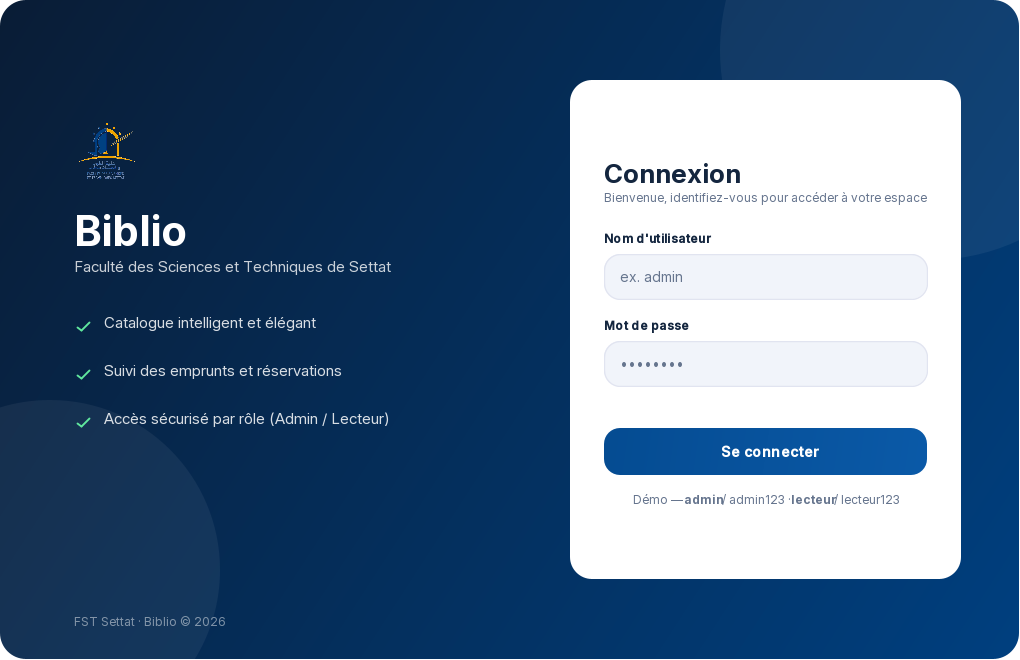
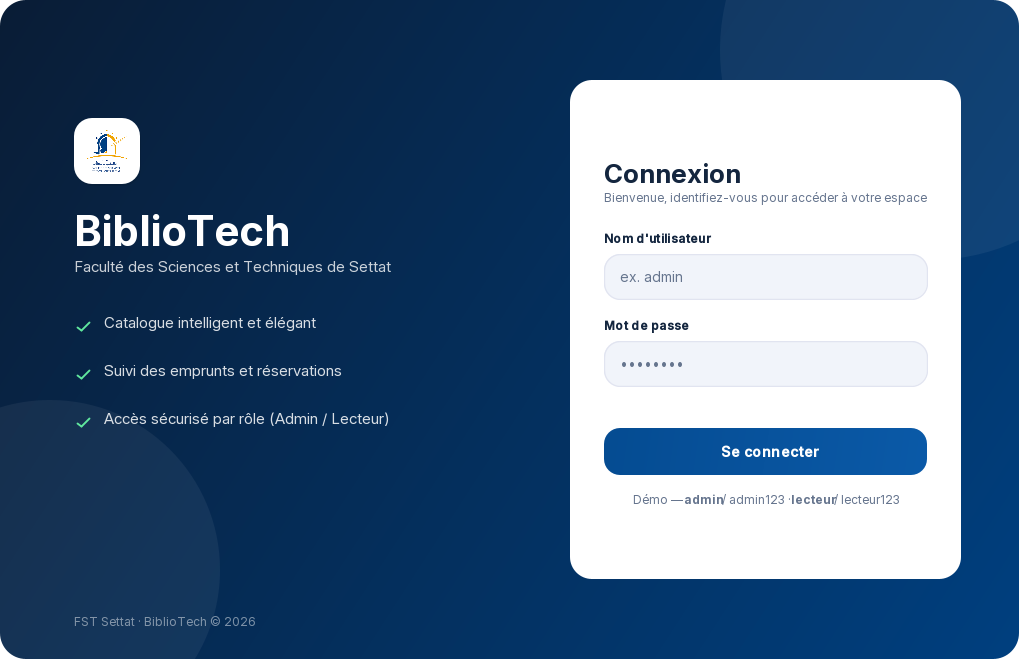
Rebuild Catalogue grid layout with WrapLayout for smooth vertical scrolling of all 160+ books and update app branding to BiblioTech

Changed region(s): [[0.0608, 0.1818, 0.152, 0.303], [0.1824, 0.303, 0.3039, 0.3939], [0.1824, 0.9394, 0.2431, 0.9697]]

diff --git a/src/gui/WrapLayout.java b/src/gui/WrapLayout.java
@@ -1,0 +1,68 @@
+import java.awt.Component;
+import java.awt.Container;
+import java.awt.Dimension;
+import java.awt.FlowLayout;
+import java.awt.Insets;
+
+public class WrapLayout extends FlowLayout {
+    public WrapLayout() {
+        super(FlowLayout.LEFT, 20, 20);
+    }
+
+    public WrapLayout(int align, int hgap, int vgap) {
+        super(align, hgap, vgap);
+    }
+
+    @Override
+    public Dimension preferredLayoutSize(Container target) {
+        return layoutSize(target, true);
+    }
+
+    @Override
+    public Dimension minimumLayoutSize(Container target) {
+        return layoutSize(target, false);
+    }
+
+    private Dimension layoutSize(Container target, boolean preferred) {
+        synchronized (target.getTreeLock()) {
+            int targetWidth = target.getWidth();
+
+            if (targetWidth == 0 && target.getParent() != null) {
+                targetWidth = target.getParent().getWidth();
+            }
+            if (targetWidth == 0) {
+                targetWidth = 980;
+            }
+
+            int hgap = getHgap();
+            int vgap = getVgap();
+            Insets insets = target.getInsets();
+            int maxWidth = targetWidth - (insets.left + insets.right + hgap * 2);
+            if (maxWidth <= 0) maxWidth = targetWidth;
+
+            int x = 0;
+            int y = insets.top + vgap;
+            int rowHeight = 0;
+            int reqWidth = 0;
+
+            for (Component m : target.getComponents()) {
+                if (m.isVisible()) {
+                    Dimension d = preferred ? m.getPreferredSize() : m.getMinimumSize();
+                    if (x == 0 || (x + d.width <= maxWidth)) {
+                        if (x > 0) x += hgap;
+                        x += d.width;
+                        rowHeight = Math.max(rowHeight, d.height);
+                    } else {
+                        reqWidth = Math.max(reqWidth, x);
+                        x = d.width;
+                        y += vgap + rowHeight;
+                        rowHeight = d.height;
+                    }
+                }
+            }
+            y += rowHeight + vgap + insets.bottom;
+            reqWidth = Math.max(reqWidth, x);
+            return new Dimension(reqWidth + insets.left + insets.right + hgap * 2, y);
+        }
+    }
+}

diff --git a/src/Launcher.cs b/src/Launcher.cs
@@ -1,0 +1,59 @@
+using System;
+using System.Diagnostics;
+using System.IO;
+using System.Windows.Forms;
+
+class Launcher
+{
+    [STAThread]
+    static void Main()
+    {
+        try
+        {
+            string root = AppDomain.CurrentDomain.BaseDirectory;
+
+            // Load environment variables from .env file if it exists
+            string envPath = Path.Combine(root, ".env");
+            if (File.Exists(envPath))
+            {
+                foreach (string line in File.ReadAllLines(envPath))
+                {
+                    string trimmed = line.Trim();
+                    if (string.IsNullOrEmpty(trimmed) || trimmed.StartsWith("#")) continue;
+                    int eq = trimmed.IndexOf('=');
+                    if (eq > 0)
+                    {
+                        string key = trimmed.Substring(0, eq).Trim();
+                        string val = trimmed.Substring(eq + 1).Trim();
+                        Environment.SetEnvironmentVariable(key, val);
+                    }
+                }
+            }
+
+            // Determine java executable path (prefer windowed javaw.exe to avoid console)
+            string javawPath = Path.Combine(root, @"dist\Biblio-Java-Windows-x64\runtime\bin\javaw.exe");
+            if (!File.Exists(javawPath))
+            {
+                javawPath = Path.Combine(root, @"dist\jpackage\Biblio-Java-Windows-x64\runtime\bin\javaw.exe");
+            }
+            if (!File.Exists(javawPath))
+            {
+                javawPath = "javaw.exe";
+            }
+
+            ProcessStartInfo psi = new ProcessStartInfo();
+            psi.FileName = javawPath;
+            psi.Arguments = "-cp \"out;lib\\postgresql-42.7.4.jar;lib\\flatlaf-3.5.4.jar\" GUI_Main";
+            psi.WorkingDirectory = root;
+            psi.UseShellExecute = false;
+            psi.CreateNoWindow = true;
+            psi.WindowStyle = ProcessWindowStyle.Hidden;
+
+            Process.Start(psi);
+        }
+        catch (Exception ex)
+        {
+            MessageBox.Show("Erreur lors du lancement de l'application: " + ex.Message, "Biblio-Java", MessageBoxButtons.OK, MessageBoxIcon.Error);
+        }
+    }
+}

diff --git a/src/gui/Logo.java b/src/gui/Logo.java
@@ -1,4 +1,5 @@
 import javax.imageio.ImageIO;
+import java.awt.Color;
 import java.awt.Graphics2D;
 import java.awt.Image;
 import java.awt.RenderingHints;
@@ -62,10 +63,28 @@ public final class Logo {
     }
 
     public static void draw(Graphics2D g, int x, int y, int w, int h) {
-        if (SOURCE == null) return;
-        g.setRenderingHint(RenderingHints.KEY_INTERPOLATION, RenderingHints.VALUE_INTERPOLATION_BILINEAR);
-        g.setRenderingHint(RenderingHints.KEY_RENDERING, RenderingHints.VALUE_RENDER_QUALITY);
-        g.setRenderingHint(RenderingHints.KEY_ANTIALIASING, RenderingHints.VALUE_ANTIALIAS_ON);
-        g.drawImage(SOURCE, x, y, w, h, null);
+        drawCard(g, x, y, Math.min(w, h), 14);
+    }
+
+    public static void drawCard(Graphics2D g, int x, int y, int size, int radius) {
+        int r = radius > 0 ? radius : 14;
+        g.setColor(new Color(0, 0, 0, 24));
+        g.fillRoundRect(x + 1, y + 2, size, size, r * 2, r * 2);
+        Theme.fillRound(g, x, y, size, size, r, Color.WHITE);
+
+        if (SOURCE != null) {
+            int pad = Math.max(4, Math.round(size * 0.12f));
+            int iw = size - pad * 2;
+            int ih = size - pad * 2;
+            g.setRenderingHint(RenderingHints.KEY_INTERPOLATION, RenderingHints.VALUE_INTERPOLATION_BILINEAR);
+            g.setRenderingHint(RenderingHints.KEY_RENDERING, RenderingHints.VALUE_RENDER_QUALITY);
+            g.setRenderingHint(RenderingHints.KEY_ANTIALIASING, RenderingHints.VALUE_ANTIALIAS_ON);
+            g.drawImage(SOURCE, x + pad, y + pad, iw, ih, null);
+        } else {
+            int iconSize = Math.round(size * 0.5f);
+            int ix = x + (size - iconSize) / 2;
+            int iy = y + (size - iconSize) / 2;
+            Icons.paint(g, Icons.Kind.BOOK, ix, iy, iconSize, Theme.PRIMARY);
+        }
     }
 }

diff --git a/src/gui/CatalogueView.java b/src/gui/CatalogueView.java
@@ -7,8 +7,6 @@ import javax.swing.JScrollPane;
 import java.awt.BorderLayout;
 import java.awt.CardLayout;
 import java.awt.FlowLayout;
-import java.awt.event.MouseAdapter;
-import java.awt.event.MouseEvent;
 import java.util.ArrayList;
 import java.util.LinkedHashSet;
 import java.util.List;
@@ -19,7 +17,7 @@ public class CatalogueView extends JPanel {
     private final Runnable onChanged;
     private final SearchField search = new SearchField();
     private final JPanel chipRow = new JPanel(new FlowLayout(FlowLayout.LEFT, 10, 0));
-    private final JPanel grid = new JPanel(new FlowLayout(FlowLayout.LEFT, 24, 24));
+    private final JPanel grid = new JPanel(new WrapLayout(FlowLayout.LEFT, 20, 20));
     private final JPanel gridArea = new JPanel(new CardLayout());
     private final List<Chip> chips = new ArrayList<>();
     private ArrayList<Livre> livres = new ArrayList<>();
@@ -51,7 +49,10 @@ public class CatalogueView extends JPanel {
 
         grid.setOpaque(false);
         JScrollPane sp = new JScrollPane(grid);
+        sp.setHorizontalScrollBarPolicy(JScrollPane.HORIZONTAL_SCROLLBAR_NEVER);
+        sp.getVerticalScrollBar().setUnitIncrement(18);
         Theme.styleScroll(sp);
+
         EmptyState empty = new EmptyState("Aucun livre trouvé", "Essayez de modifier votre recherche ou vos filtres.");
         empty.setOpaque(false);
         gridArea.setOpaque(false);

diff --git a/src/gui/LoginScreen.java b/src/gui/LoginScreen.java
@@ -226,16 +226,11 @@ public class LoginScreen extends JFrame {
 
             int x = 74;
             int y = (int) (h * 0.18);
-            if (Logo.AVAILABLE) {
-                Logo.draw(g, x, y, 66, 66);
-            } else {
-                Theme.gradientRound(g, x, y, 62, 62, 18, Theme.PRIMARY, Theme.PRIMARY_2);
-                Icons.paint(g, Icons.Kind.BOOK, x + 18, y + 18, 26, Color.WHITE);
-            }
+            Logo.drawCard(g, x, y, 66, 18);
 
             g.setFont(Theme.TITLE_BIG);
             g.setColor(Color.WHITE);
-            g.drawString("Biblio", x, y + 128);
+            g.drawString("BiblioTech", x, y + 128);
 
             g.setFont(Theme.BODY_15);
             g.setColor(new Color(255, 255, 255, 200));
@@ -247,7 +242,7 @@ public class LoginScreen extends JFrame {
 
             g.setFont(Theme.SMALL);
             g.setColor(new Color(255, 255, 255, 120));
-            g.drawString("FST Settat · Biblio © 2026", x, h - 34);
+            g.drawString("FST Settat · BiblioTech © 2026", x, h - 34);
             g.dispose();
         }
 

diff --git a/src/gui/BiblioGUI.java b/src/gui/BiblioGUI.java
@@ -388,15 +388,10 @@ public class BiblioGUI extends JFrame {
             Graphics2D g = (Graphics2D) g0.create();
             g.setRenderingHint(RenderingHints.KEY_ANTIALIASING, RenderingHints.VALUE_ANTIALIAS_ON);
             g.setRenderingHint(RenderingHints.KEY_TEXT_ANTIALIASING, RenderingHints.VALUE_TEXT_ANTIALIAS_ON);
-            if (Logo.AVAILABLE) {
-                Logo.draw(g, 6, 20, 50, 50);
-            } else {
-                Theme.gradientRound(g, 4, 22, 48, 48, 15, Theme.PRIMARY, Theme.PRIMARY_2);
-                Icons.paint(g, Icons.Kind.BOOK, 17, 35, 22, Color.WHITE);
-            }
+            Logo.drawCard(g, 6, 20, 50, 14);
             g.setFont(Theme.H2);
             g.setColor(Color.WHITE);
-            g.drawString("Biblio", 68, 46);
+            g.drawString("BiblioTech", 68, 46);
             g.setFont(Theme.SMALL);
             g.setColor(new Color(255, 255, 255, 160));
             g.drawString("Bibliothèque FST Settat", 68, 64);

diff --git a/README.md b/README.md
@@ -1,4 +1,4 @@
-# Gestion de Bibliothèque (Biblio-Java)
+# BiblioTech — Gestion de Bibliothèque (FST Settat)
 
 Application de bureau en **Java / Swing** pour gérer une bibliothèque : livres, emprunts, réservations et utilisateurs, avec persistance **PostgreSQL**.
 
@@ -6,6 +6,10 @@ Application de bureau en **Java / Swing** pour gérer une bibliothèque : livres
 
 - [ZIP Windows 64 bits](dist/Biblio-Java-Windows-x64.zip)
 - [EXE Windows 64 bits](dist/jpackage/Biblio-Java-Windows-x64/Biblio-Java-Windows-x64.exe)
+
+## Lancement direct sur PC
+
+Vous pouvez directement double-cliquer sur **`Biblio-Java.exe`** situé à la racine du projet. Ce fichier lance l'application immédiatement sans ouvrir de fenêtre de terminal / invite de commande.
 
 ## Installation Windows (mode utilisateur)
 
